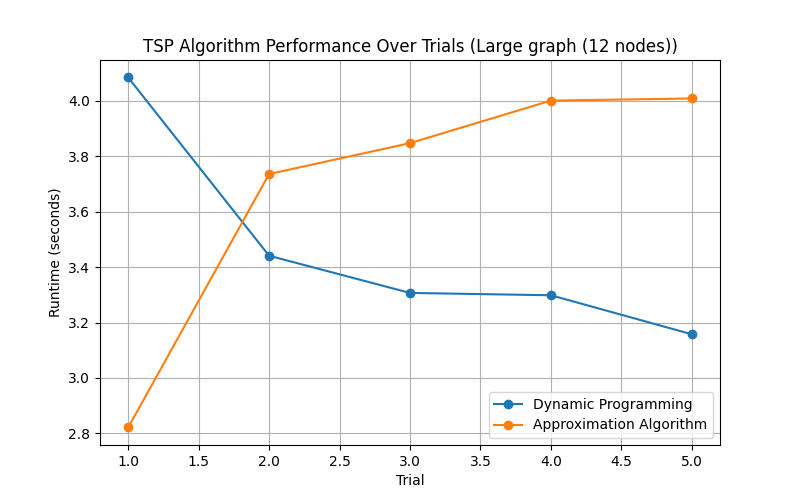
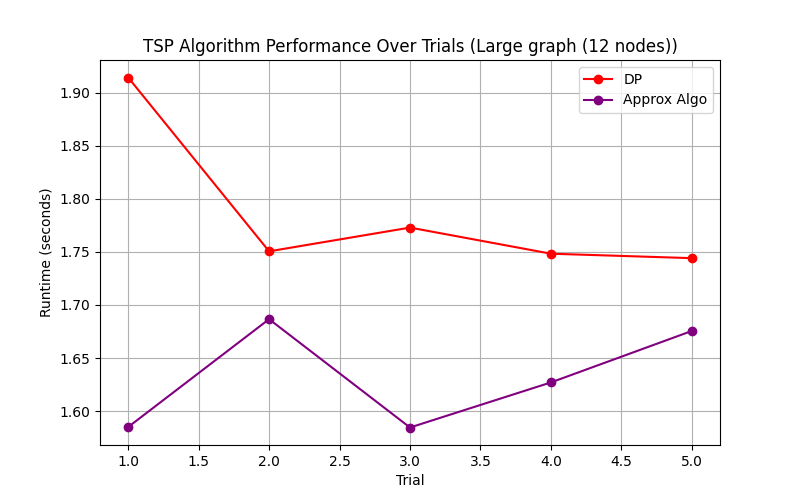
final touches

diff --git a/analyze_performance.py b/analyze_performance.py
@@ -72,16 +72,18 @@ def run_experiments():
 
     results = []
     runtime_results = {}
+    
+
 
     for test_name, (G, dataset_path) in test_cases:
-        runtime_results[test_name] = {algo: [] for algo in ["Brute Force", "Branch and Bound", "Dynamic Programming", "Approximation Algorithm"]}
+        runtime_results[test_name] = {algo: [] for algo in ["BF", "B&B", "DP", "Approx Algo"]}
         print(f"\nRunning experiments for: {test_name}...")
 
         algorithms = [
-            ("Brute Force", tsp_brute_force) if len(G.nodes) <= 10 else None,
-            ("Branch and Bound", tsp_branch_and_bound) if len(G.nodes) <= 12 else None,
-            ("Dynamic Programming", tsp_dynamic_programming),
-            ("Approximation Algorithm", tsp_approximation)
+            ("BF", tsp_brute_force) if len(G.nodes) <= 10 else None,
+            ("B&B", tsp_branch_and_bound) if len(G.nodes) <= 12 else None,
+            ("DP", tsp_dynamic_programming),
+            ("Approx Algo", tsp_approximation)
         ]
 
         for algorithm_entry in algorithms:
@@ -122,7 +124,12 @@ def run_experiments():
 
 def plot_performance(runtime_results):
   
-    
+    ALGORITHM_COLORS = {
+    "BF": "blue",
+    "B&B": "green",
+    "DP": "red",
+    "Approx Algo": "purple"
+}
     # Individual test case plots
     for test_case, algo_runtimes in runtime_results.items():
         plt.figure(figsize=(8, 5))
@@ -130,7 +137,8 @@ def plot_performance(runtime_results):
         for algorithm, runtimes in algo_runtimes.items():
             if runtimes:
                 avg_runtime = [sum(runtimes[:i+1]) / (i+1) for i in range(len(runtimes))]  # Cumulative avg
-                plt.plot(range(1, len(avg_runtime)+1), avg_runtime, marker='o', label=algorithm)
+                color = ALGORITHM_COLORS.get(algorithm, None)
+                plt.plot(range(1, len(avg_runtime)+1), avg_runtime, marker='o', label=algorithm, color=color)
 
         plt.xlabel("Trial")
         plt.ylabel("Runtime (seconds)")
@@ -149,7 +157,9 @@ def plot_performance(runtime_results):
         for algo_idx, (algorithm, runtimes) in enumerate(algo_runtimes.items()):
             if runtimes:
                 avg_runtime = [sum(runtimes[:i+1]) / (i+1) for i in range(len(runtimes))]
-                plt.plot(range(1, len(avg_runtime)+1), avg_runtime, marker='o', linestyle='-', label=f"{algorithm} ({test_case})", color=colors[algo_idx % len(colors)])
+                color = ALGORITHM_COLORS.get(algorithm, None)
+                plt.plot(range(1, len(avg_runtime)+1), avg_runtime, marker='o', linestyle='-',
+                         label=f"{algorithm} ({test_case})", color=color)
 
     plt.xlabel("Trial")
     plt.ylabel("Runtime (seconds)")

diff --git a/main.py b/main.py
@@ -129,11 +129,26 @@ def run_experiments():
     plot_runtime_per_test_case(runtime_df)
 
 def plot_runtime_per_test_case(runtime_df):
+    algorithm_colors = {
+        "Brute Force": "blue",
+        "Branch and Bound": "orange",
+        "Dynamic Programming": "green",
+        "Approximation Algorithm": "red"
+    }
+    algorithm_acronyms = {
+        "Brute Force": "BF",
+        "Branch and Bound": "B&B",
+        "Dynamic Programming": "DP",
+        "Approximation Algorithm": "Approx"
+    }
     for test_case in runtime_df["Test Case"].unique():
         subset = runtime_df[runtime_df["Test Case"] == test_case]
 
         plt.figure(figsize=(8, 5))
-        plt.bar(subset["Algorithm"], subset["Runtime (seconds)"], color=['blue', 'orange', 'green', 'red'])
+        bar_colors = [algorithm_colors.get(alg, "gray") for alg in subset["Algorithm"]]
+        x_labels = [algorithm_acronyms.get(alg, alg) for alg in subset["Algorithm"]]
+
+        plt.bar(x_labels, subset["Runtime (seconds)"], color=bar_colors)
         plt.xlabel("Algorithm")
         plt.ylabel("Runtime (seconds)")
         plt.title(f"TSP Runtime for {test_case}")
